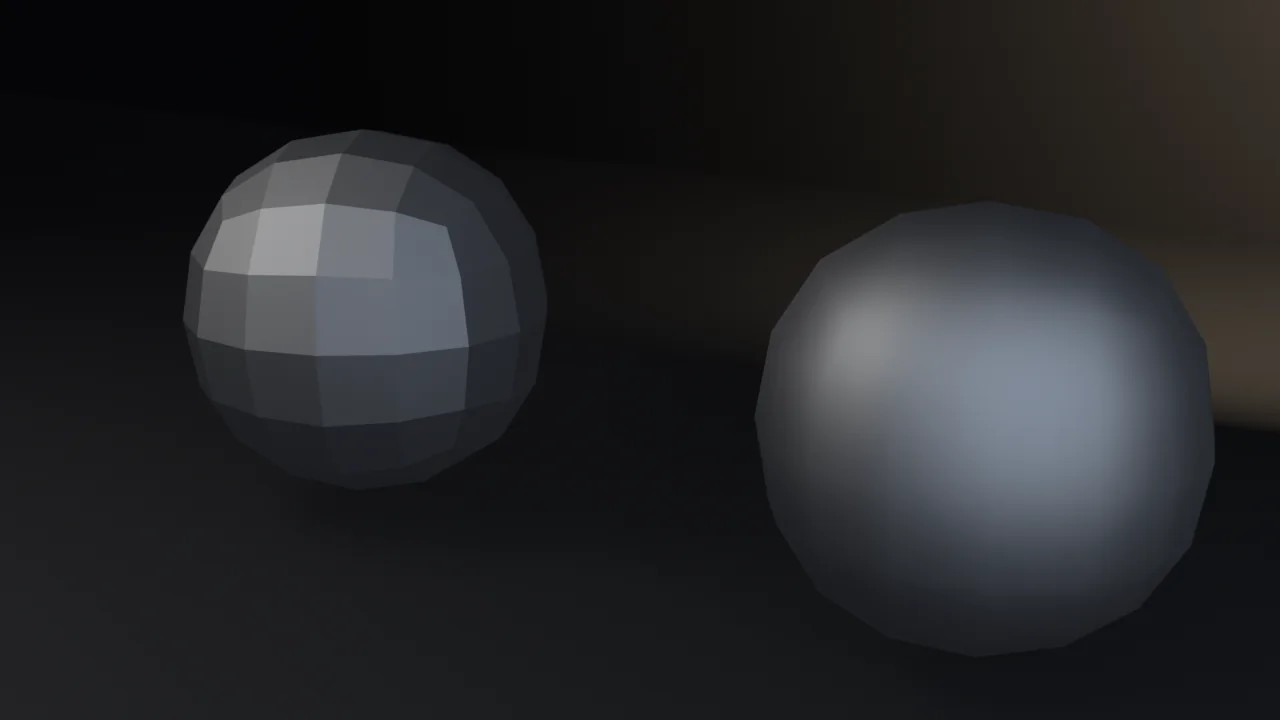
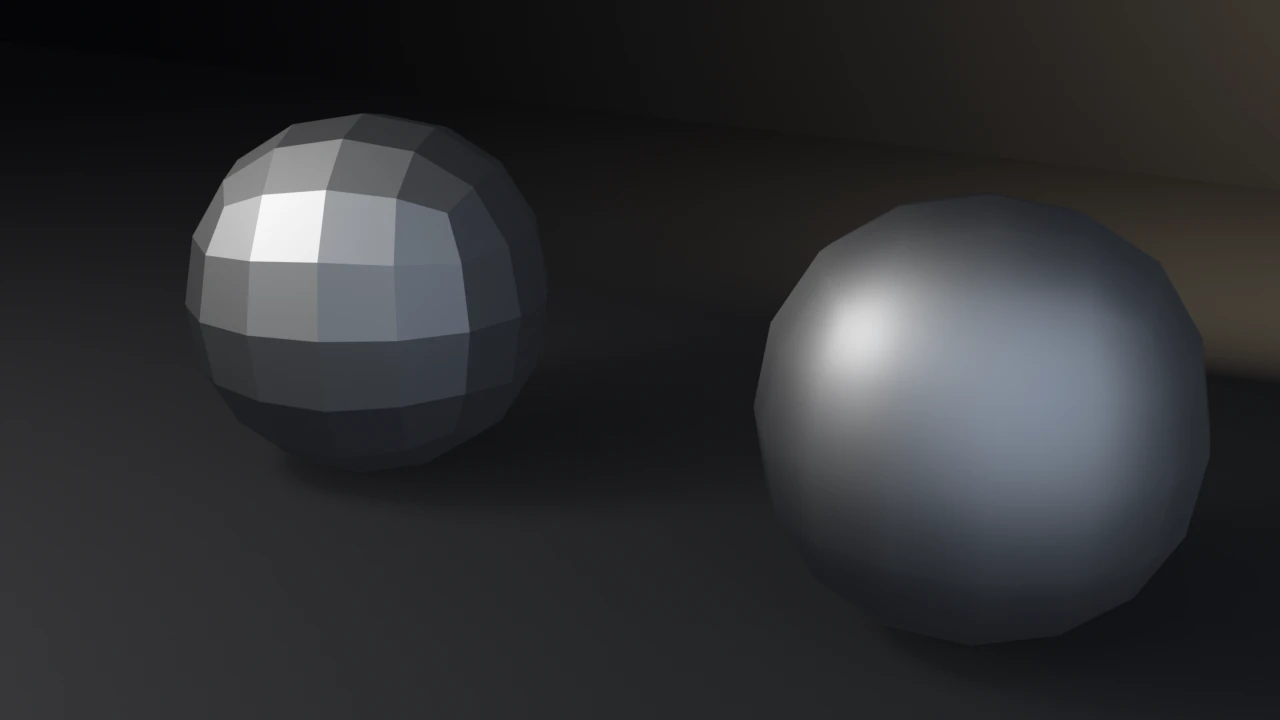
fix: usd-export-evaluation-mode presentation, ingots rest on the floor
Render path only: both subdivided balls hovered 0.16 m above the floor;
each now rests on z = 0 from its evaluated vertices. Brighter key.
Contract and exit codes unchanged on 4.5.11, 5.1.2 and 5.2.1.

diff --git a/docs/gallery/usd-export-evaluation-mode/index.html b/docs/gallery/usd-export-evaluation-mode/index.html
@@ -16,13 +16,13 @@
   <meta property="og:image" content="https://tmhsdigital.github.io/Blender-Developer-Tools/gallery/assets/usd-export-evaluation-mode-hero.webp" />
   <meta property="og:image:width" content="1280" />
   <meta property="og:image:height" content="720" />
-  <meta property="og:image:alt" content="Two grey spheres: a coarse, flat-shaded one on the left and a smooth, subdivided one on the right." />
+  <meta property="og:image:alt" content="Two steel balls resting on the floor: a coarse, flat-shaded one on the left and a smooth, subdivided one on the right." />
   <meta property="og:site_name" content="Blender Developer Tools" />
   <meta name="twitter:card" content="summary_large_image" />
   <meta name="twitter:title" content="usd-export-evaluation-mode — Examples — Blender Developer Tools" />
   <meta name="twitter:description" content="The USD exporter evaluation_mode chooses viewport versus render modifier quality. TESSELLATE makes the split observable; BEST_MATCH writes the cage and the mode is silent." />
   <meta name="twitter:image" content="https://tmhsdigital.github.io/Blender-Developer-Tools/gallery/assets/usd-export-evaluation-mode-hero.webp" />
-  <meta name="twitter:image:alt" content="Two grey spheres: a coarse, flat-shaded one on the left and a smooth, subdivided one on the right." />
+  <meta name="twitter:image:alt" content="Two steel balls resting on the floor: a coarse, flat-shaded one on the left and a smooth, subdivided one on the right." />
   <style>
     /* fonts are deployed by the landing build (docs/fonts/) */
     @font-face { font-family: 'Barlow Condensed'; font-weight: 600; font-display: swap;
@@ -268,8 +268,8 @@
     <p>The USD exporter evaluation_mode chooses viewport versus render modifier quality. TESSELLATE makes the split observable; BEST_MATCH writes the cage and the mode is silent.</p>
   </header>
   <main id="main">
-    <button class="detail-hero" id="heroZoom" type="button" aria-label="View full size: Two grey spheres: a coarse, flat-shaded one on the left and a smooth, subdivided one on the right.">
-      <img src="../assets/usd-export-evaluation-mode-hero.webp" alt="Two grey spheres: a coarse, flat-shaded one on the left and a smooth, subdivided one on the right." width="1280" height="720" />
+    <button class="detail-hero" id="heroZoom" type="button" aria-label="View full size: Two steel balls resting on the floor: a coarse, flat-shaded one on the left and a smooth, subdivided one on the right.">
+      <img src="../assets/usd-export-evaluation-mode-hero.webp" alt="Two steel balls resting on the floor: a coarse, flat-shaded one on the left and a smooth, subdivided one on the right." width="1280" height="720" />
     </button>
     <p class="zoom-hint">Rendered headless by the example itself — click to zoom.</p>
     <div class="callout"><span class="tag">witnesses</span> TESSELLATE+VIEWPORT writes 26/24; TESSELLATE+RENDER writes 98/96 subdivisionScheme=none; BEST_MATCH writes the 8-vert catmullClark cage. --evaluation-mode VIEWPORT and --subdivision BEST_MATCH exit 4.</div>
@@ -283,7 +283,7 @@
 <p>The still is numeric-adjacent: left is viewport tessellation (flat-shaded L1), right is render tessellation (smoothed L2). The USDA point counts are the evidence; the two balls depict the two qualities the exporter chooses between.</p>
 <p><strong>What failure each check would catch:</strong></p>
 <ul><li>exit 3 — VIEWPORT TESSELLATE did not write the L1 closed form</li><li>exit 4 — RENDER TESSELLATE wrote viewport quality or the BEST_MATCH cage (<code>--evaluation-mode VIEWPORT</code> measured 26/24; <code>--subdivision BEST_MATCH</code> measured 8/6 <code>catmullClark</code>)</li><li>exit 5 — BEST_MATCH stopped writing the cage</li><li>exit 6 — RENDER and VIEWPORT files are identical</li></ul>
-<p>The still depicts viewport vs render tessellation of the same SUBSURF cube (flat-shaded L1 vs smoothed L2). The USDA point counts are the evidence.</p>
+<p>Staging: Catmull-Clark pulls the surface inside the 2 m cage, and level 1 and level 2 shrink by different amounts, so both balls used to hover about 0.16 m over the floor at the cage&#x27;s z = 1.0. The render path now rests each one on the floor from its own evaluated vertices (measured zmin 0.000000 for both), after the check has run.</p>
 <p>Probed on the CI Linux portables <strong>Blender 5.2.1 LTS</strong> (<code>9e2066aef7ef</code>) and <strong>Blender 4.5.13 LTS</strong> (<code>daeeeca98fb0</code>): <code>wm.usd_export</code> exists, <code>poll()</code> is true in <code>--background</code>, <code>evaluation_mode</code> is <code>{RENDER, VIEWPORT}</code>. The <code>--output</code> render path measures framing via <code>examples/gallery_framing.py</code> (exit 10 on violation).</p>
 <h2>Run</h2>
 <pre><code>blender --background --python usd_export_evaluation_mode.py --
@@ -319,6 +319,7 @@ check. Pass --output to also render a still:
     blender --background --python usd_export_evaluation_mode.py -- --output u.png
 &quot;&quot;&quot;</span>
 <span class="k">import</span> bpy, bmesh, sys, os, math, argparse, tempfile
+<span class="k">from</span> mathutils <span class="k">import</span> Vector
 
 sys.path.insert(<span class="n">0</span>, os.path.join(os.path.dirname(os.path.abspath(__file__)), os.pardir))
 sys.dont_write_bytecode = <span class="k">True</span>
@@ -523,6 +524,19 @@ LEVEL_RD = <span class="n">2</span>
     rm.render_levels = LEVEL_RD
     <span class="k">for</span> poly <span class="k">in</span> right.data.polygons:
         poly.use_smooth = <span class="k">True</span>
+    <span class="c"># Subdivision pulls the surface inside the 2 m cage, so at z = 1.0 both</span>
+    <span class="c"># ingots hovered above the floor. Rest each on z = 0 from its own</span>
+    <span class="c"># evaluated bounds (level 1 and level 2 shrink by different amounts).</span>
+    bpy.context.view_layer.update()
+    dg = bpy.context.evaluated_depsgraph_get()
+    <span class="k">for</span> ob <span class="k">in</span> (left, right):
+        ev = ob.evaluated_get(dg)
+        em = ev.to_mesh()
+        <span class="k">try</span>:
+            zmin = min((ev.matrix_world @ v.co).z <span class="k">for</span> v <span class="k">in</span> em.vertices)
+        <span class="k">finally</span>:
+            ev.to_mesh_clear()
+        ob.location.z -= zmin
 
     floor_me = bpy.data.meshes.new(<span class="s">&quot;Floor&quot;</span>)
     bm = bmesh.new()
@@ -556,12 +570,12 @@ LEVEL_RD = <span class="n">2</span>
         ob.rotation_euler = tuple(math.radians(a) <span class="k">for</span> a <span class="k">in</span> rot)
         scene.collection.objects.link(ob)
 
-    light(<span class="s">&quot;Key&quot;</span>, (-<span class="n">4.0</span>, -<span class="n">5.0</span>, <span class="n">6.0</span>), <span class="n">200.0</span>, <span class="n">7.0</span>, (<span class="n">1.0</span>, <span class="n">0.96</span>, <span class="n">0.9</span>), (<span class="n">46</span>, <span class="n">0</span>, -<span class="n">35</span>))
+    light(<span class="s">&quot;Key&quot;</span>, (-<span class="n">4.0</span>, -<span class="n">5.0</span>, <span class="n">6.0</span>), <span class="n">420.0</span>, <span class="n">5.0</span>, (<span class="n">1.0</span>, <span class="n">0.96</span>, <span class="n">0.9</span>), (<span class="n">46</span>, <span class="n">0</span>, -<span class="n">35</span>))
     light(<span class="s">&quot;Fill&quot;</span>, (<span class="n">5.0</span>, -<span class="n">3.5</span>, <span class="n">3.0</span>), <span class="n">180.0</span>, <span class="n">9.0</span>, (<span class="n">0.75</span>, <span class="n">0.85</span>, <span class="n">1.0</span>), (<span class="n">62</span>, <span class="n">0</span>, <span class="n">50</span>))
     light(<span class="s">&quot;Wedge&quot;</span>, (<span class="n">2.5</span>, <span class="n">5.5</span>, <span class="n">4.0</span>), <span class="n">360.0</span>, <span class="n">6.0</span>, (<span class="n">1.0</span>, <span class="n">0.76</span>, <span class="n">0.5</span>), (-<span class="n">68</span>, <span class="n">0</span>, <span class="n">190</span>))
 
     aim = bpy.data.objects.new(<span class="s">&quot;Aim&quot;</span>, <span class="k">None</span>)
-    aim.location = (<span class="n">0.0</span>, <span class="n">0.0</span>, <span class="n">1.0</span>)
+    aim.location = (<span class="n">0.0</span>, <span class="n">0.0</span>, <span class="n">0.78</span>)
     aim.hide_render = <span class="k">True</span>
     scene.collection.objects.link(aim)
     cam_data = bpy.data.cameras.new(<span class="s">&quot;Cam&quot;</span>)
@@ -649,7 +663,7 @@ LEVEL_RD = <span class="n">2</span>
   </main>
   <dialog class="lightbox" id="lightbox" aria-label="Full-size render">
     <button class="lightbox-close" type="button" autofocus>Close</button>
-    <img src="../assets/usd-export-evaluation-mode-hero.webp" alt="Two grey spheres: a coarse, flat-shaded one on the left and a smooth, subdivided one on the right." />
+    <img src="../assets/usd-export-evaluation-mode-hero.webp" alt="Two steel balls resting on the floor: a coarse, flat-shaded one on the left and a smooth, subdivided one on the right." />
   </dialog>
   <footer>
     <div class="statusbar">

diff --git a/examples/usd-export-evaluation-mode/usd_export_evaluation_mode.py b/examples/usd-export-evaluation-mode/usd_export_evaluation_mode.py
@@ -18,6 +18,7 @@ check. Pass --output to also render a still:
     blender --background --python usd_export_evaluation_mode.py -- --output u.png
 """
 import bpy, bmesh, sys, os, math, argparse, tempfile
+from mathutils import Vector
 
 sys.path.insert(0, os.path.join(os.path.dirname(os.path.abspath(__file__)), os.pardir))
 sys.dont_write_bytecode = True
@@ -222,6 +223,19 @@ def render_still(obj, path, engine):
     rm.render_levels = LEVEL_RD
     for poly in right.data.polygons:
         poly.use_smooth = True
+    # Subdivision pulls the surface inside the 2 m cage, so at z = 1.0 both
+    # ingots hovered above the floor. Rest each on z = 0 from its own
+    # evaluated bounds (level 1 and level 2 shrink by different amounts).
+    bpy.context.view_layer.update()
+    dg = bpy.context.evaluated_depsgraph_get()
+    for ob in (left, right):
+        ev = ob.evaluated_get(dg)
+        em = ev.to_mesh()
+        try:
+            zmin = min((ev.matrix_world @ v.co).z for v in em.vertices)
+        finally:
+            ev.to_mesh_clear()
+        ob.location.z -= zmin
 
     floor_me = bpy.data.meshes.new("Floor")
     bm = bmesh.new()
@@ -255,12 +269,12 @@ def render_still(obj, path, engine):
         ob.rotation_euler = tuple(math.radians(a) for a in rot)
         scene.collection.objects.link(ob)
 
-    light("Key", (-4.0, -5.0, 6.0), 200.0, 7.0, (1.0, 0.96, 0.9), (46, 0, -35))
+    light("Key", (-4.0, -5.0, 6.0), 420.0, 5.0, (1.0, 0.96, 0.9), (46, 0, -35))
     light("Fill", (5.0, -3.5, 3.0), 180.0, 9.0, (0.75, 0.85, 1.0), (62, 0, 50))
     light("Wedge", (2.5, 5.5, 4.0), 360.0, 6.0, (1.0, 0.76, 0.5), (-68, 0, 190))
 
     aim = bpy.data.objects.new("Aim", None)
-    aim.location = (0.0, 0.0, 1.0)
+    aim.location = (0.0, 0.0, 0.78)
     aim.hide_render = True
     scene.collection.objects.link(aim)
     cam_data = bpy.data.cameras.new("Cam")

diff --git a/examples/usd-export-evaluation-mode/README.md b/examples/usd-export-evaluation-mode/README.md
@@ -26,8 +26,11 @@ between.
 - exit 5 — BEST_MATCH stopped writing the cage
 - exit 6 — RENDER and VIEWPORT files are identical
 
-The still depicts viewport vs render tessellation of the same SUBSURF cube
-(flat-shaded L1 vs smoothed L2). The USDA point counts are the evidence.
+Staging: Catmull-Clark pulls the surface inside the 2 m cage, and level 1
+and level 2 shrink by different amounts, so both balls used to hover about
+0.16 m over the floor at the cage's z = 1.0. The render path now rests each
+one on the floor from its own evaluated vertices (measured zmin 0.000000
+for both), after the check has run.
 
 Probed on the CI Linux portables **Blender 5.2.1 LTS** (`9e2066aef7ef`) and
 **Blender 4.5.13 LTS** (`daeeeca98fb0`): `wm.usd_export` exists, `poll()` is

diff --git a/README.md b/README.md
@@ -450,7 +450,7 @@ three. `--assume-distinct-names` is red only on 5.2.
 </tr>
 <tr>
 <td width="46%" valign="middle">
-<a href="examples/usd-export-evaluation-mode/"><img src="examples/usd-export-evaluation-mode/preview.webp" alt="USD export evaluation_mode: two steel SUBSURF cubes on a dark studio floor — left faceted viewport tessellation, right smoother render tessellation, warm wedge on the back wall" /></a>
+<a href="examples/usd-export-evaluation-mode/"><img src="examples/usd-export-evaluation-mode/preview.webp" alt="USD export evaluation_mode: two steel SUBSURF cubes resting on a dark studio floor — left faceted viewport tessellation, right smoother render tessellation, warm wedge on the back wall" /></a>
 </td>
 <td valign="middle">
 
